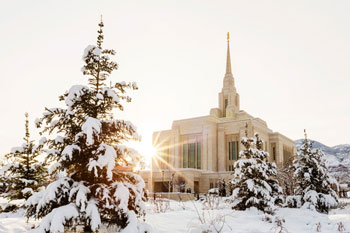
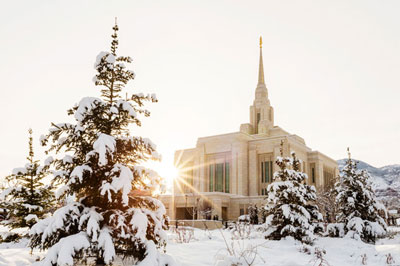
thg

diff --git a/assignments/final-project/index.html b/assignments/final-project/index.html
@@ -55,15 +55,15 @@
                         <p>The Ogden Utah Temple is a sister building to the Provo Utah Temple. Ground was broken for the Ogden Utah Temple on the 96th birthday of President David O. McKay. He passed away just four months later. The temple was subsequently dedicated on the second anniversary of his passing.</p>
                         <a href="https://www.mormonnewsroom.org/ldsnewsroom/eng/news-releases-stories/facts-about-the-ogden-utah-temple"> Continue Reading at MormonNewsroom.Org</a>
                     </div>
-                    <figure class="norm">
+
+                        <figure class="norm">
                             <picture>
-                                    <source  srcset="images/ogden-temple-large.jpg" media="(min-width: 500px) and (max-width:799px)">
+                                    <source  srcset="images/ogden-temple-medium.jpg" media="(min-width: 500px) and (max-width:799px)">
                                     <source  srcset="images/ogden-temple.jpg" media="(min-width: 800px)">
                                     <img class="ogden-image" src="images/ogden-temple-small.jpg" alt="Ogden Utah Temple">
                             </picture>
-                        <figcaption>The Ogden Utah Temple was the first temple built with six ordinance rooms, allowing sessions to begin every 20 minutes. </figcaption>
-                    </figure>
-                    
+                            <figcaption>Ay nako</figcaption>
+                        </figure>
             </aside>
             <br>
             <br>

diff --git a/assignments/final-project/css/small.css b/assignments/final-project/css/small.css
@@ -130,6 +130,11 @@ div#map {
     margin-left: 0;
     }
 
-.norm {box-shadow: 0 0 20px #333;
-    padding: 0;
+
+.ogden-image {
+     width: auto; height: auto; margin: 0;
     }
+
+figcaption {
+    display: none;
+}

diff --git a/assignments/final-project/css/large.css b/assignments/final-project/css/large.css
@@ -112,6 +112,7 @@ aside {
 }
 
 .norm {box-shadow: 0 0 20px #333;
+    display: grid;
 }
 
 
